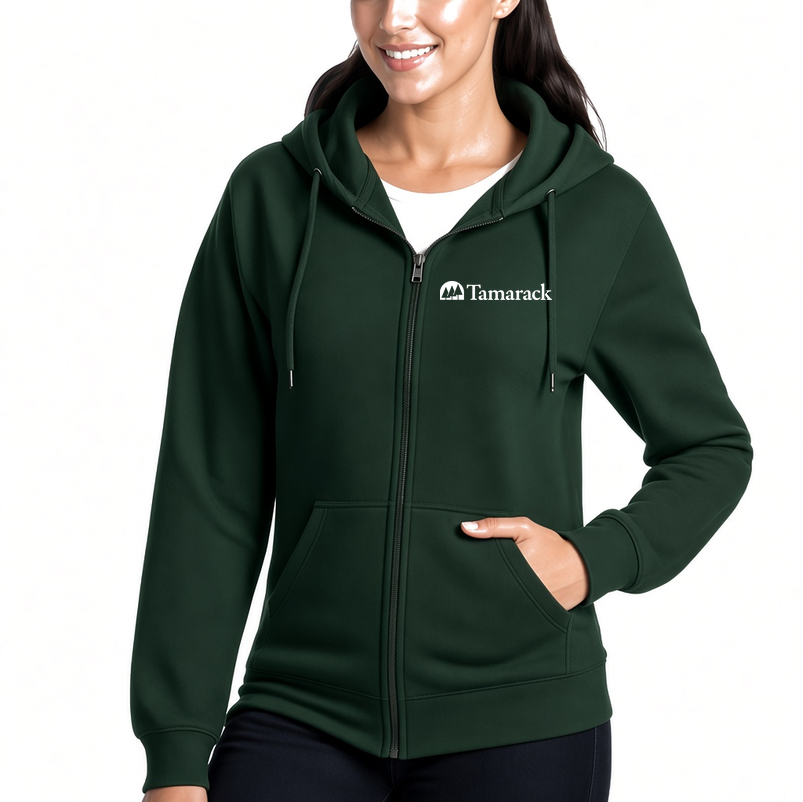
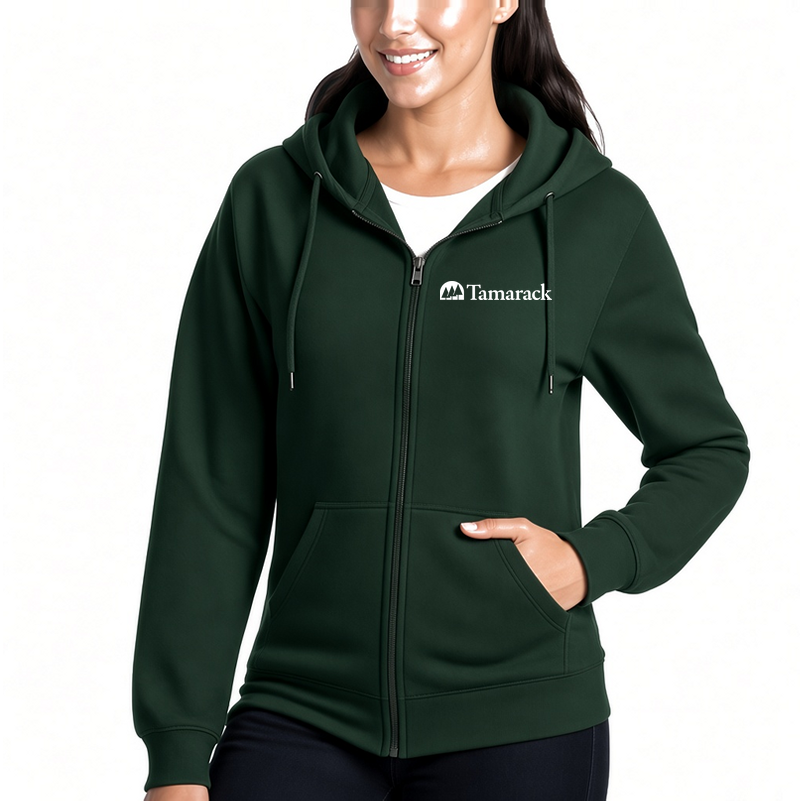
Tamarack TM-3: align the Forest Green photo to the Black one (no jump on colour switch)
The bake script gains an optional per-output ALIGN step (scale + shift of the
blank before the logo goes on); the Forest blank was ~0.8% larger and offset.

diff --git a/scripts/place-tamarack-logos.py b/scripts/place-tamarack-logos.py
@@ -49,6 +49,15 @@ TASKS = [
     ("L00555", "L00555-forestgreen.png",    "L00555-forestgreen-tamarack.png"),
 ]
 
+# Optional per-output alignment of the blank BEFORE the logo goes on, so a
+# colour's photo lines up with the colour it sits beside in the gallery:
+# (scale, dx, dy) — scale about the top-left, then shift in source pixels.
+# Measured by matching the model's outline against the other colour's image.
+ALIGN = {
+    # Forest blank is ~0.8% larger and offset vs TM-3's black image.
+    "L00555-forestgreen-tamarack.png": (0.992, 3, 5),
+}
+
 # Optional: bake only the named outputs, e.g.
 #   python3 scripts/place-tamarack-logos.py S350-forestgreen-tamarack.png
 import sys
@@ -90,6 +99,16 @@ for code, src, out in TASKS:
     logo = logo_dark if f"{code}::{slug}".lower() in DARK else logo_light
     base = Image.open(f"{SM}/public/skus/{src}").convert("RGBA")
     W, H = base.size
+    if out in ALIGN:
+        sc, dx, dy = ALIGN[out]
+        base = base.transform((W, H), Image.AFFINE, (1 / sc, 0, -dx / sc, 0, 1 / sc, -dy / sc),
+                              resample=Image.BICUBIC, fillcolor=(255, 255, 255, 255))
+        # A downward shift uncovers a strip at the top (where the photo is
+        # cropped through the subject): extend the first real row up into it.
+        top = max(0, round(dy)) + 1
+        if top > 1:
+            edge = base.crop((0, top, W, top + 1)).resize((W, top))
+            base.paste(edge, (0, 0))
     bx, by = pl["x"] * W, pl["y"] * H
     bw, bh = pl["w"] * W, pl["h"] * H
     # object-contain the logo inside the box (preserve aspect, center)
